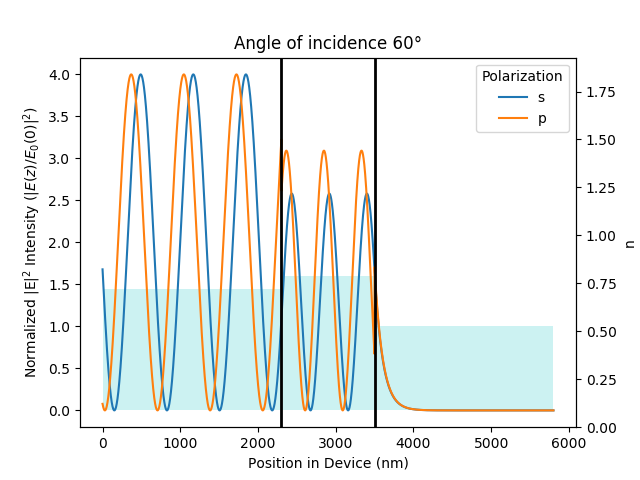
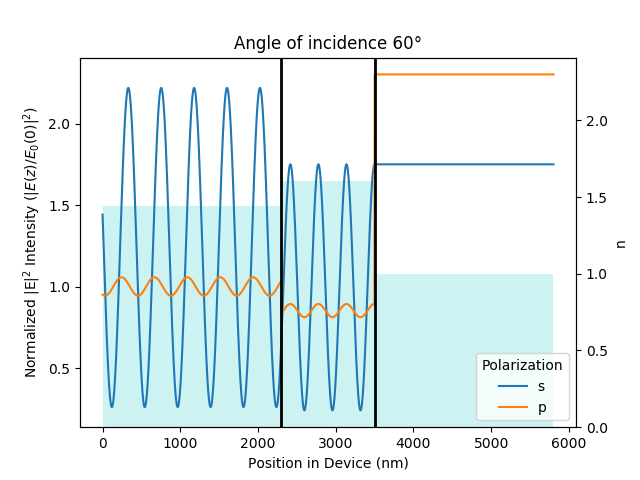
added plotting refractive index and begun s-series

diff --git a/Examples/T_series.py b/Examples/T_series.py
@@ -26,8 +26,12 @@ def excitation_profile(sample):
     # Laser Excitation Wavelength
     st.set_vacuum_wavelength(976)
     st.set_field('E')
-    aoi = 60  # Angle of incidence (degrees)
-    st.set_incident_angle(aoi, units='degrees')
+
+    # Angle of incidence (degrees)
+    aoi = 60  # In air - onto chip
+    from lifetmm.HelperFunctions import snell
+    aoi_soi2 = snell(1, n_dict['SiO2'], aoi * (np.pi / 180))  # Set to aoi in silica (radians)
+    st.set_incident_angle(aoi_soi2, units='radians')
     st.info()
 
     # Do calculations
@@ -49,18 +53,19 @@ def excitation_profile(sample):
     ax1.set_title('Angle of incidence {}°'.format(aoi))
     ax1.legend(title='Polarization')
 
-    for z in st.get_layer_boundaries()[:-1]:
-        ax1.axvline(x=z, color='k', lw=2)
-
     # Draw rectangles for the refractive index
     from matplotlib.patches import Rectangle
     ax2 = ax1.twinx()
     for z0, dz, n in zip(st.d_cumulative, st.d_list, st.n_list):
-        rect = Rectangle((z0 - dz, 0), dz, n.real, facecolor='c', zorder=-1, alpha=0.2)
-        ax1.add_patch(rect)  # Note: add to ax1 so that zorder has effect
+        rect = Rectangle((z0 - dz, 0), dz, n.real, facecolor='c', alpha=0.2)
+        ax2.add_patch(rect)  # Note: add to ax1 so that zorder has effect
     ax2.set_ylabel('n')
-    ax2.set_ylim(0, 1.2 * max(st.n_list.real))
+    ax2.set_ylim(0, 1.5 * max(st.n_list.real))
+    ax1.set_zorder(ax2.get_zorder() + 1)  # put ax1 in front of ax2
+    ax1.patch.set_visible(False)  # hide ax1'canvas'
 
+    for z in st.get_layer_boundaries()[:-1]:
+        ax1.axvline(x=z, color='k', lw=2)
     if SAVE:
         plt.savefig('../Images/{}_excitation_profile'.format(chip['Sample ID']))
     plt.show()
@@ -99,11 +104,6 @@ def plot(sample):
     except KeyError:
         pass
 
-    # Plot internal layer boundaries
-    for i in boundaries:
-        ax1.axvline(i, color='k', ls='--')
-        ax2.axvline(i, color='k', ls='--')
-
     # Labels
     ax1.set_ylabel('$\Gamma / \Gamma_0$')
     ax2.set_ylabel('$\Gamma / \Gamma_0$')
@@ -111,17 +111,9 @@ def plot(sample):
     ax1.set_title('Leaky')
     ax2.set_title('Guided')
 
-    # TODO: Fix
-    # Draw rectangles for the refractive index
-    # from matplotlib.patches import Rectangle
-    # ax2 = ax1.twinx()
-    # for z0, dz, n in zip(st1.d_cumulative, st1.d_list, st1.n_list):
-    #     z0 = st1.calc_z_to_lambda(z0, center=True)
-    #     dz = st1.calc_z_to_lambda(dz, center=False)
-    #     rect = Rectangle((2*z0-dz, 0), dz, n.real, facecolor='c', zorder=-1, alpha=0.2)
-    #     ax2.add_patch(rect)
-    # ax2.set_ylabel('n')
-    # ax2.set_ylim(0, 1.2*max(st1.n_list.real))
+    for z in st1.get_layer_boundaries()[:-1]:
+        ax1.axvline(x=z, color='k', lw=2)
+        ax2.axvline(x=z, color='k', lw=2)
 
     if SAVE:
         plt.savefig('../Images/{}_individual'.format(chip['Sample ID']))
@@ -131,7 +123,7 @@ def plot(sample):
 
     # Plot internal layer boundaries
     for i in boundaries:
-        ax1.axvline(i, color='k', ls='--')
+        ax1.axvline(i, color='k', lw=2)
 
     # Labels
     ax1.set_ylabel('$\Gamma / \Gamma_0$')
@@ -140,6 +132,59 @@ def plot(sample):
 
     if SAVE:
         plt.savefig('../Images/{}_total'.format(chip['Sample ID']))
+    plt.show()
+
+
+def fig6(sample):
+    """
+    Silicon layer bounded by two semi infinite air claddings.
+    """
+    # Load Data
+    df = pd.read_csv('../Data/Screening.csv', index_col='Sample ID')
+    n = df.loc[sample]['n']
+    d = df.loc[sample]['d'] * 1e3  # in nm not um
+    chip = {'Sample ID': sample, 'n': n, 'd': d}
+
+    # Structure 1
+    st = LifetimeTmm()
+    st.set_vacuum_wavelength(lam0)
+    st.add_layer(d_clad * lam0, n_dict['SiO2'])
+    st.add_layer(chip['d'], chip['n'])
+    st.add_layer(d_clad * lam0, n_dict['Air'])
+    st.info()
+
+    # Calculate spontaneous emission over whole structure
+    result = st.calc_spe_structure_leaky()
+    z = result['z']
+    spe = result['spe']
+
+    # Convert z into z/lam0 and center
+    z = st.calc_z_to_lambda(z)
+
+    # Plot spontaneous emission rates
+    fig = plt.figure()
+    ax1 = fig.add_subplot(211)
+    ax1.plot(z, spe['TE'], label='TE')
+    ax1.plot(z, spe['TM_p'], label='TM')
+    ax1.plot(z, spe['TE'] + spe['TM_p'], 'k', label='TE + TM')
+    ax2 = fig.add_subplot(212)
+    ax2.plot(z, spe['TM_s'], label='TM')
+
+    # Plot layer boundaries
+    for z in st.get_layer_boundaries()[:-1]:
+        ax1.axvline(st.calc_z_to_lambda(z), color='k', lw=2)
+        ax2.axvline(st.calc_z_to_lambda(z), color='k', lw=2)
+
+    # ax1.set_ylim(0, 1.4)
+    # ax2.set_ylim(0, 1.4)
+    ax1.set_title('{}: Spontaneous Emission Rate.'.format(chip['Sample ID']))
+    ax1.set_ylabel('$\Gamma / \Gamma_0$')
+    ax2.set_ylabel('$\Gamma /\Gamma_0$')
+    ax2.set_xlabel('z/$\lambda$')
+    ax1.legend(title='Horizontal Dipoles', loc='lower right', fontsize='medium')
+    ax2.legend(title='Vertical Dipoles', loc='lower right', fontsize='medium')
+    if SAVE:
+        plt.savefig('../Images/{}_fig6'.format(chip['Sample ID']))
     plt.show()
 
 
@@ -294,7 +339,8 @@ if __name__ == "__main__":
               'Diiodomethane': 1.71
               }
 
-    excitation_profile(sample='T21')
+    # excitation_profile(sample='T21')
     # plot(sample='T21')
+    fig6(sample='T21')
     # loop_csv()
     # loop_list()

diff --git a/Examples/S_series.py b/Examples/S_series.py
@@ -1,0 +1,123 @@
+"""
+Thin film calculations for S-series.
+"""
+
+import matplotlib.pyplot as plt
+from matplotlib.patches import Rectangle
+
+from lifetmm.SpontaneousEmissionRate import LifetimeTmm
+
+
+def plot():
+    # Structure 1
+    st = LifetimeTmm()
+    st.set_vacuum_wavelength(lam0)
+    st.add_layer(d_clad * lam0, n_dict['SiO2'])
+    st.add_layer(1 * lam0, n_dict['TZN'])
+    st.add_layer(100, 1.6)
+    st.add_layer(1 * lam0, n_dict['TZN'])
+    st.add_layer(d_clad * lam0, n_dict['Air'])
+    st.info()
+
+    result1 = st.calc_spe_structure(th_pow=11)
+    try:
+        spe1 = result1['leaky']['avg'] + result1['guided']['avg']
+    except KeyError:
+        spe1 = result1['leaky']['avg']
+
+    z = result1['z']
+    z = st.calc_z_to_lambda(z)
+    boundaries = [st.calc_z_to_lambda(i) for i in st.get_layer_boundaries()[:-1]]
+
+    # ------- Plots -------
+    fig, (ax1, ax2) = plt.subplots(2, 1, sharex='col', sharey='none')
+    ax1.plot(z, result1['leaky']['avg'])
+    try:
+        ax2.plot(z, result1['guided']['avg'])
+    except KeyError:
+        pass
+
+    # Labels
+    ax1.set_ylabel('$\Gamma / \Gamma_0$')
+    ax2.set_ylabel('$\Gamma / \Gamma_0$')
+    ax2.set_xlabel('Position z ($\lambda$)')
+    ax1.set_title('Leaky')
+    ax2.set_title('Guided')
+
+    for i in boundaries:
+        ax1.axvline(x=i, color='k', lw=2)
+        ax2.axvline(x=i, color='k', lw=2)
+
+    # Draw rectangles for the refractive index
+    ax1b = ax1.twinx()
+    ax2b = ax2.twinx()
+    for z0, dz, n in zip(st.d_cumulative, st.d_list, st.n_list):
+        z0 = st.calc_z_to_lambda(z0)
+        dz = st.calc_z_to_lambda(dz, center=False)
+        rect = Rectangle((z0 - dz, 0), dz, n.real, facecolor='c', alpha=0.2)
+        ax1b.add_patch(rect)
+        ax1b.set_ylabel('n')
+        ax1b.set_ylim(0, 1.5 * max(st.n_list.real))
+        rect = Rectangle((z0 - dz, 0), dz, n.real, facecolor='c', alpha=0.2)
+        ax2b.add_patch(rect)
+        ax2b.set_ylabel('n')
+        ax2b.set_ylim(0, 1.5 * max(st.n_list.real))
+    ax1.set_zorder(ax1b.get_zorder() + 1)  # put ax1 in front of ax2
+    ax1.patch.set_visible(False)  # hide ax1'canvas'
+    ax2.set_zorder(ax2b.get_zorder() + 1)  # put ax1 in front of ax2
+    ax2.patch.set_visible(False)  # hide ax1'canvas'
+
+    if SAVE:
+        plt.savefig('../Images/{}_individual'.format('s-series'))
+
+    fig, ax1 = plt.subplots()
+    ax1.plot(z, spe1)
+
+    # Plot internal layer boundaries
+    for i in boundaries:
+        ax1.axvline(i, color='k', lw=2)
+
+    # Labels
+    ax1.set_ylabel('$\Gamma / \Gamma_0$')
+    ax1.set_xlabel('Position z ($\lambda$)')
+    # ax1.legend()
+
+    # Draw rectangles for the refractive index
+    ax1b = ax1.twinx()
+    for z0, dz, n in zip(st.d_cumulative, st.d_list, st.n_list):
+        z0 = st.calc_z_to_lambda(z0)
+        dz = st.calc_z_to_lambda(dz, center=False)
+        rect = Rectangle((z0 - dz, 0), dz, n.real, facecolor='c', alpha=0.2)
+        ax1b.add_patch(rect)
+        ax1b.set_ylabel('n')
+        ax1b.set_ylim(0, 1.5 * max(st.n_list.real))
+    ax1.set_zorder(ax1b.get_zorder() + 1)  # put ax1 in front of ax2
+    ax1.patch.set_visible(False)  # hide ax1'canvas'
+
+    if SAVE:
+        plt.savefig('../Images/{}_total'.format('s-series'))
+    plt.show()
+
+
+if __name__ == "__main__":
+    SAVE = True  # Save figs and data? (bool)
+
+    # Set vacuum wavelength
+    lam0 = 1540
+
+    # Cladding thickness (in units of lam0)
+    d_clad = 1.5
+
+    # Dictionary of material refractive indexes
+    n_dict = {'Air': 1,
+              'Water': 1.3183,
+              'SiO2': 1.442,
+              'Glycerol': 1.46,
+              'EDTS': 1.56,
+              'Cassia Oil': 1.6,
+              'Diiodomethane': 1.71,
+              'TZN': 1.9
+              }
+
+    # excitation_profile()
+    plot()

diff --git a/Examples/test.py b/Examples/test.py
@@ -160,8 +160,8 @@ if __name__ == "__main__":
     sio2 = 1.45
     si = 3.48 - 5j
 
-    # mcgehee()
+    mcgehee()
     # spe()
     # guiding_plot()
     # guiding_electric_field()
-    test()
+    # test()
